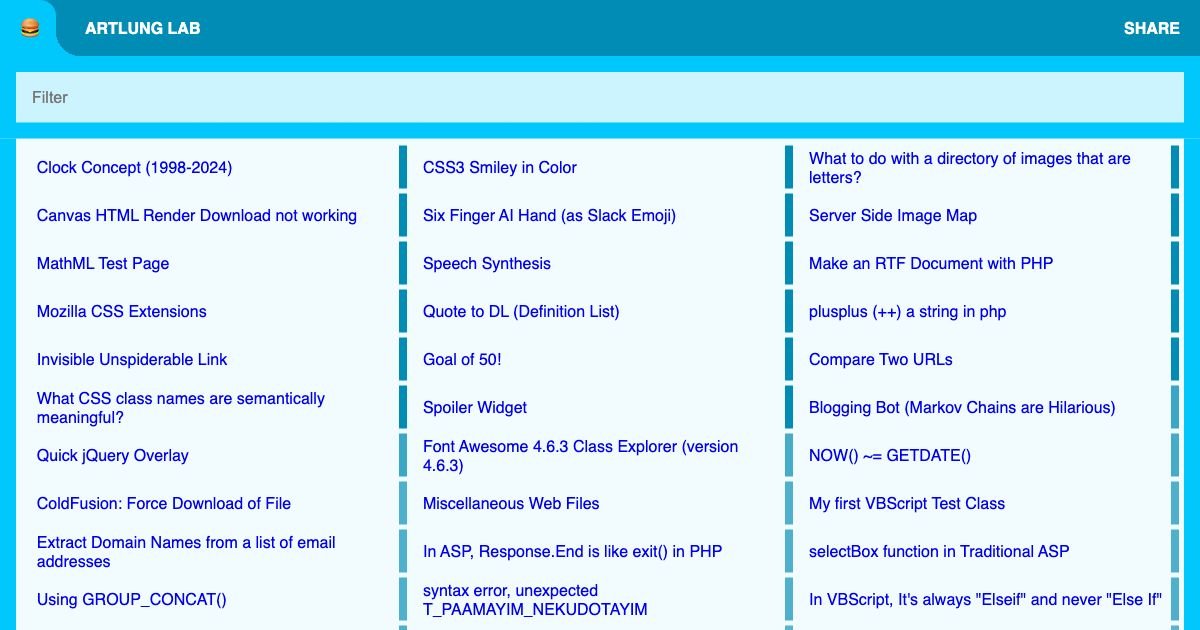
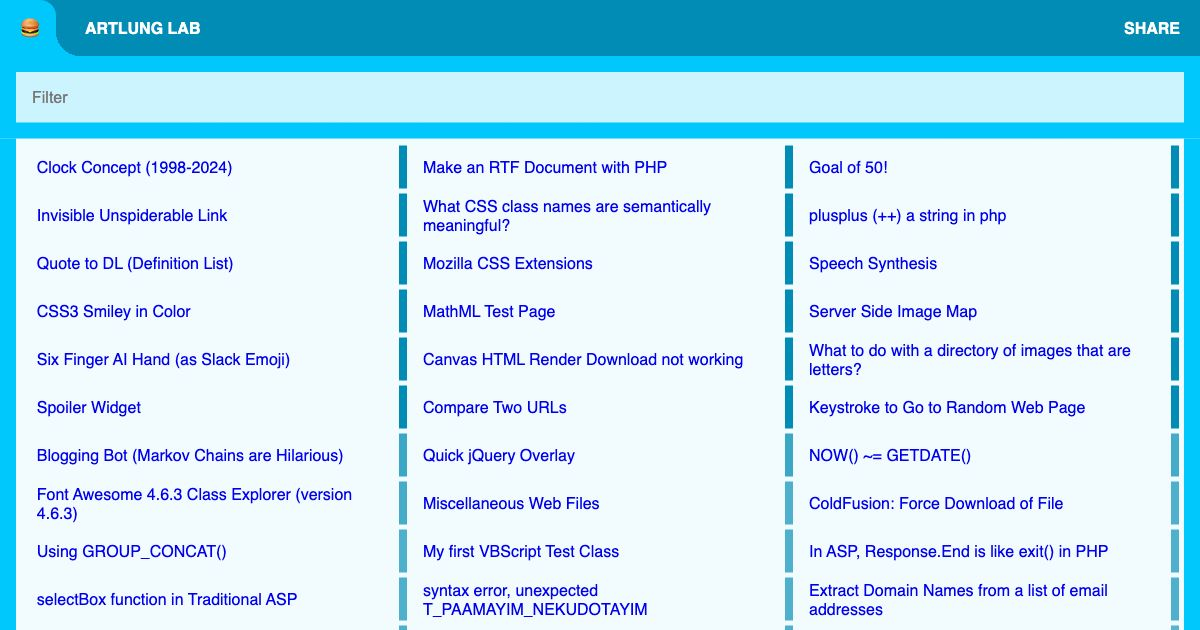
Documented my random page via-keystroke feature

diff --git a/web/2025.scss b/web/2025.scss
@@ -268,6 +268,8 @@ article#content {
       color: $color_3;
       background-color: $background-color_3;
     }
+
+
   }
 
   background-color: $background-color_5;

diff --git a/web/keystroke-to-go-to-random-page/keystroke-to-go-to-random-page.php b/web/keystroke-to-go-to-random-page/keystroke-to-go-to-random-page.php
@@ -1,0 +1,68 @@
+<?php
+require_once __DIR__ . '/../../loader.php';
+$lab = new ArtlungLab\Lab();
+$lab->printHeader(
+    'Keystroke to Go to Random Web Page'
+);
+
+
+
+
+$code = <<<EOF
+document.addEventListener('DOMContentLoaded', function () {
+    document.addEventListener('keydown', function(event) {
+        console.log(event);
+        if (event.altKey && event.keyCode === 82) {
+            // if we are in frames, go to the top
+            if (window.top !== window.self) {
+                window.top.location = '/random.php';
+            }
+            window.location = '/random.php';
+        }
+    });
+});
+EOF;
+
+?>
+
+<p class="date-attribution">Posted December 2024</p>
+
+    <h1>Keystroke to Go to Random Web Page</h1>
+
+<p>
+    Most pages on THE LAB have event listeners set up so that if you press <strong><kbd>Alt</kbd> + <kbd>R</kbd></strong> you will be taken to a random page on the site. This is a fun way to explore the site. It's a simple bit of JavaScript that listens for the keydown event, and if the <kbd>Alt</kbd> key and the <kbd>R</kbd> key are pressed, it will take you to a random page.
+</p>
+
+<p>
+    I created this for my site <a href="https://smorgasborg.artlung.com/">"Smorgasborg"</a> which is a kind of "junk drawer" offshoot from my personal site.
+
+<p>Large websites can be cumbersome to explore, particularly sites with a lot of pages.</p>
+
+<p>    It's also useful for me to spot-check changes to a website as a hidden feature.
+
+</p>
+
+<h2>JavaScript Code to listen for keystrokes</h2>
+
+<pre><code><?php
+    print htmlentities($code);
+?></code></pre>
+
+<h2>PHP Code inside <code>random.php</code></h2>
+
+<pre><code><?php highlight_file('../random.php'); ?></code></pre>
+
+
+<?php
+$lab->printFooter(
+    [
+        'comments' => true
+    ]
+);
+
+
+
+
+
+
+

diff --git a/web/random.php b/web/random.php
@@ -1,4 +1,5 @@
 <?php
+
 require_once '../loader.php';
 
 $directories = glob('*', GLOB_ONLYDIR);
@@ -6,35 +7,27 @@ $directories = glob('*', GLOB_ONLYDIR);
 $urls = [];
 $urls[] = '/';
 
+// for a small filesystem based site this is okay,
+// but for a larger site you'd want to cache the
+// list of directories
 foreach ($directories as $directory) {
-    $just_slug = str_replace('web/', '', $directory);
-
+    $just_slug = $directory;
+    // My convention is to have a directory with the same name as the slug
+    // Directories without that convention would be ignored,
+    // To implement this you could also check for index.html or index.php.
+    // Whatever indicates to the script what a valid page would be
     $file = "$directory/$just_slug.php";
     if (file_exists($file)) {
         $urls[] = "/$just_slug/";
     }
 }
 
-$check_for_subdirectories_in = [];
-
-foreach ($check_for_subdirectories_in as $subdir) {
-    $subdirectories = glob("$subdir/*", GLOB_ONLYDIR);
-    foreach ($subdirectories as $subdirectory) {
-        $just_slug = str_replace("$subdir/", '', $subdirectory);
-        $file = "$subdirectory/$just_slug.php";
-        if (file_exists($file)) {
-            $urls[] = "/$subdir/$just_slug/";
-        }
-    }
-}
-
-
-
 $link = rand(0, count($urls) - 1);
 $url = $urls[$link];
 
+// We want to be able to run this from the command line
 if (php_sapi_name() != 'cli') {
     header('Location: ' . $url);
 } else {
-    echo $url;
+    echo $url . "\n";
 }

diff --git a/classes/Nav.php b/classes/Nav.php
@@ -165,6 +165,7 @@ class Nav
             'upload' => ['title' => 'Sample Uploader Code'],
             'keycode' => ['title' => 'Listen for Key Presses on a Web Page'],
             'spoiler' => ['title' => 'Spoiler Widget'],
+            'keystroke-to-go-to-random-page' => ['title' => 'Keystroke to Go to Random Web Page'],
         ];
 
         $slugs_and_years = Years::slugsAndYears();

diff --git a/classes/Years.php b/classes/Years.php
@@ -166,6 +166,7 @@ class Years
             'upload' => 2015,
             'rosetta' => 2010,
             'slideshow-plus' => 2003,
+            'keystroke-to-go-to-random-page' => 2024,
 
         );
     }

diff --git a/web/keystroke-to-go-to-random-page/index.php b/web/keystroke-to-go-to-random-page/index.php
@@ -1,0 +1,2 @@
+<?php
+require 'keystroke-to-go-to-random-page.php';
